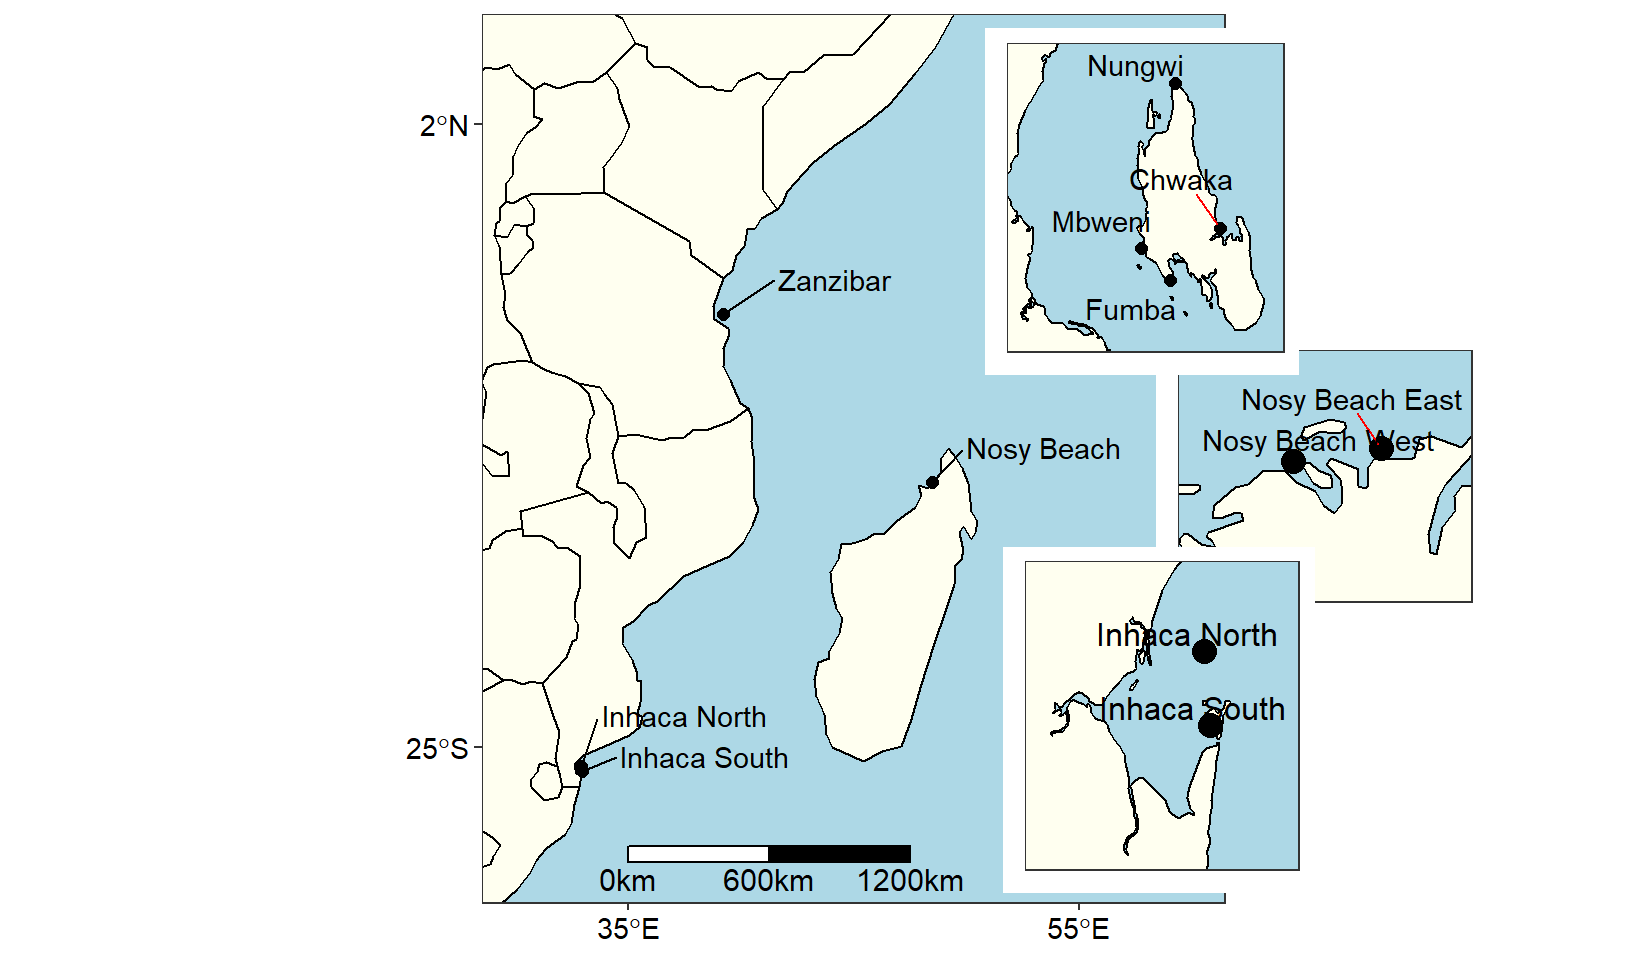
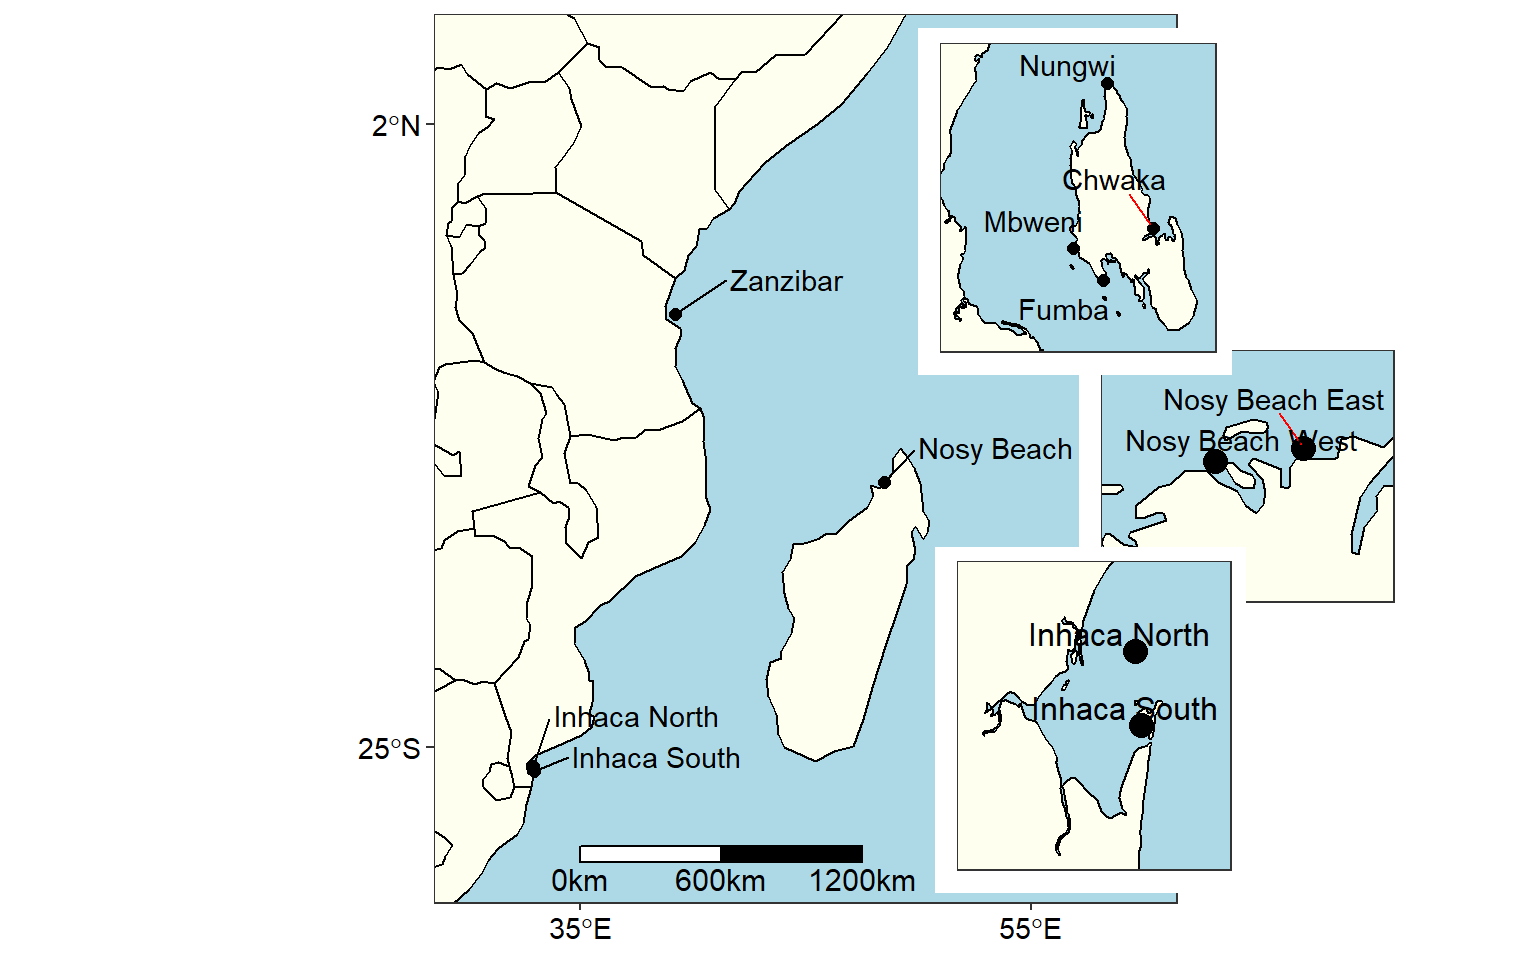
genetic post changed to graphics

diff --git a/content/post/2018-10-22-genetic-connectivity-in-western-indian-ocean-region.html b/content/post/2018-10-22-genetic-connectivity-in-western-indian-ocean-region.html
@@ -16,9 +16,9 @@ link-citations: yes
 
 <div id="moving-from-argis-to-r" class="section level3">
 <h3>Moving from ARGIS to R</h3>
-<p>For years, ESRI ArcGIS was a core software for most data processing, spatial analysis and drawing of outputs as map. Honestly the elegant high-resolution figures and maps I produced did not come from ArcMap, but rather from Adobe Illustrator. I was doing all the layout of the maps in ArcMap and then export it as in vector format <code>Encapsulated PostScript</code>. I then imported the <code>.eps</code> file into Adobe illustrator for touching and polishing. Although ArcMap has many cartographic tools and abilities <span class="citation">(ArcGIS, <a href="#ref-esri">2011</a>)</span>, but a lot of professional cartography is done in a vector graphics software such as Adobe Illustrator (and/or an image editing software such as Adobe Photoshop) <span class="citation">(Adobe Illustrator, <a href="#ref-illustrator">2013</a>)</span> .</p>
-<p>The main reason for using Adobe Illustrator was that it is a more robust graphics software package and provides tools and effects not available in ArcGIS. These allow me to access and manipulate each and every object on the page as a graphic object, even the individual vertices of the text letters. Therefore, combining ArcMap and Adobe Illustrator provided me the best I wanted. But the labour invested in creating a single graph or map was painful. Another main reason for looking for an alternative was the license issue. Esri Arcmap and Adobe illustrator are proprietary software and hook your pocket for using them— unable to purchase the license for using the software in developing countries. The other reason made me sick of the combinantion is when I was asked to make some edits on the graphics or maps created. I hated to go back and redo the same procedures to make the same map and accomodate the correction. My mind frequently flushed with an idea to make the procedure to make map and graphics once and then reproduce it. However, that was far from the reality because ArcGIS and Adobe Illustrator are two different platform.</p>
-<p>Switch to programming language and you are done! In 2015, I switched to R. One of the main reasons motivated me to turn to R is it’s strong graphic power <span class="citation">(R Core Team, <a href="#ref-r">2018</a>)</span> and reproducibility. In this post I will explain and show how to make elegant map with standard quality even for publishing. We first need to load the packages we need for drawing maps.</p>
+<p>For years, ESRI <strong>ArcGIS</strong> was a core software for most data processing, spatial analysis and drawing of outputs as map. Honestly the elegant high-resolution figures and maps I produced did not come from <strong>ArcMap</strong>, but rather from <strong>Adobe Illustrator</strong>. I was doing all the layout of the maps in <strong>ArcMap</strong> and then export it as in vector format <code>Encapsulated PostScript</code>. I then imported the <code>.eps</code> file into Adobe illustrator for touching and polishing. Although ArcMap has many cartographic tools and abilities <span class="citation">(ArcGIS, <a href="#ref-esri">2011</a>)</span>, but a lot of professional cartography is done in a vector graphics software such as <strong>Adobe Illustrator</strong> (and/or an image editing software such as <strong>Adobe Photoshop</strong>) <span class="citation">(Adobe Illustrator, <a href="#ref-illustrator">2013</a>)</span> .</p>
+<p>The main reason for using Adobe Illustrator was that it is a more robust graphics software package and provides tools and effects not available in <strong>ArcGIS.</strong> These allow me to access and manipulate each and every object on the page as a graphic object, even the individual vertices of the text letters. Therefore, combining ArcMap and Adobe Illustrator provided me the best I wanted. But the labour invested in creating a single graph or map was painful. Another main reason for looking for an alternative was the license issue. Esri <strong>Arcmap</strong> and <strong>Adobe Illustrator</strong> are proprietary software and hook your pocket for using them— unable to purchase the license for using the software in developing countries. The other reason made me sick of the combinantion is when I was asked to make some edits on the graphics or maps created. I hated to go back and redo the same procedures to make the same map and accomodate the correction. My mind frequently flushed with an idea to make the procedure to make map and graphics once and then reproduce it. However, that was far from the reality because <strong>ArcGIS</strong> and <strong>Adobe Illustrator</strong> are two different platform.</p>
+<p>Coding with programming language was the solution to avoid repeatitive procedure to the common tasks. In 2015, I switched to R. One of the main reasons motivated me to invest my time and resources in R is it’s strong graphic power <span class="citation">(R Core Team, <a href="#ref-r">2018</a>)</span> and reproducibility. In this post I will explain and show how to make elegant map with standard quality even for publishing. We first need to load the packages we need for drawing maps.</p>
 <pre class="r"><code>require(tidyverse)
 require(spData)
 require(sf)</code></pre>
@@ -325,7 +325,7 @@ Figure 5: The stations in A) Unguja-Tanzania and B) inhaca - Mozambique
   cowplot::draw_plot(inhaca+theme(axis.text = element_blank(), axis.ticks = element_blank()), 
                      x = .41, y = -0.05,width = .6, height = .6,scale = .6)</code></pre>
 <div class="figure"><span id="fig:cw2"></span>
-<img src="/post/2018-10-22-genetic-connectivity-in-western-indian-ocean-region_files/figure-html/cw2-1.png" alt="Map of area of interest drawn on on the WIO region area to show sampling stations" width="816" />
+<img src="/post/2018-10-22-genetic-connectivity-in-western-indian-ocean-region_files/figure-html/cw2-1.png" alt="Map of area of interest drawn on on the WIO region area to show sampling stations" width="768" />
 <p class="caption">
 Figure 6: Map of area of interest drawn on on the WIO region area to show sampling stations
 </p>

diff --git a/public/10/20/2018/genetic-connectivity-in-western-indian-ocean-region/index.html b/public/10/20/2018/genetic-connectivity-in-western-indian-ocean-region/index.html
@@ -80,9 +80,9 @@
 
 <div id="moving-from-argis-to-r" class="section level3">
 <h3>Moving from ARGIS to R</h3>
-<p>For years, ESRI ArcGIS was a core software for most data processing, spatial analysis and drawing of outputs as map. Honestly the elegant high-resolution figures and maps I produced did not come from ArcMap, but rather from Adobe Illustrator. I was doing all the layout of the maps in ArcMap and then export it as in vector format <code>Encapsulated PostScript</code>. I then imported the <code>.eps</code> file into Adobe illustrator for touching and polishing. Although ArcMap has many cartographic tools and abilities <span class="citation">(ArcGIS, <a href="#ref-esri">2011</a>)</span>, but a lot of professional cartography is done in a vector graphics software such as Adobe Illustrator (and/or an image editing software such as Adobe Photoshop) <span class="citation">(Adobe Illustrator, <a href="#ref-illustrator">2013</a>)</span> .</p>
-<p>The main reason for using Adobe Illustrator was that it is a more robust graphics software package and provides tools and effects not available in ArcGIS. These allow me to access and manipulate each and every object on the page as a graphic object, even the individual vertices of the text letters. Therefore, combining ArcMap and Adobe Illustrator provided me the best I wanted. But the labour invested in creating a single graph or map was painful. Another main reason for looking for an alternative was the license issue. Esri Arcmap and Adobe illustrator are proprietary software and hook your pocket for using them— unable to purchase the license for using the software in developing countries. The other reason made me sick of the combinantion is when I was asked to make some edits on the graphics or maps created. I hated to go back and redo the same procedures to make the same map and accomodate the correction. My mind frequently flushed with an idea to make the procedure to make map and graphics once and then reproduce it. However, that was far from the reality because ArcGIS and Adobe Illustrator are two different platform.</p>
-<p>Switch to programming language and you are done! In 2015, I switched to R. One of the main reasons motivated me to turn to R is it’s strong graphic power <span class="citation">(R Core Team, <a href="#ref-r">2018</a>)</span> and reproducibility. In this post I will explain and show how to make elegant map with standard quality even for publishing. We first need to load the packages we need for drawing maps.</p>
+<p>For years, ESRI <strong>ArcGIS</strong> was a core software for most data processing, spatial analysis and drawing of outputs as map. Honestly the elegant high-resolution figures and maps I produced did not come from <strong>ArcMap</strong>, but rather from <strong>Adobe Illustrator</strong>. I was doing all the layout of the maps in <strong>ArcMap</strong> and then export it as in vector format <code>Encapsulated PostScript</code>. I then imported the <code>.eps</code> file into Adobe illustrator for touching and polishing. Although ArcMap has many cartographic tools and abilities <span class="citation">(ArcGIS, <a href="#ref-esri">2011</a>)</span>, but a lot of professional cartography is done in a vector graphics software such as <strong>Adobe Illustrator</strong> (and/or an image editing software such as <strong>Adobe Photoshop</strong>) <span class="citation">(Adobe Illustrator, <a href="#ref-illustrator">2013</a>)</span> .</p>
+<p>The main reason for using Adobe Illustrator was that it is a more robust graphics software package and provides tools and effects not available in <strong>ArcGIS.</strong> These allow me to access and manipulate each and every object on the page as a graphic object, even the individual vertices of the text letters. Therefore, combining ArcMap and Adobe Illustrator provided me the best I wanted. But the labour invested in creating a single graph or map was painful. Another main reason for looking for an alternative was the license issue. Esri <strong>Arcmap</strong> and <strong>Adobe Illustrator</strong> are proprietary software and hook your pocket for using them— unable to purchase the license for using the software in developing countries. The other reason made me sick of the combinantion is when I was asked to make some edits on the graphics or maps created. I hated to go back and redo the same procedures to make the same map and accomodate the correction. My mind frequently flushed with an idea to make the procedure to make map and graphics once and then reproduce it. However, that was far from the reality because <strong>ArcGIS</strong> and <strong>Adobe Illustrator</strong> are two different platform.</p>
+<p>Coding with programming language was the solution to avoid repeatitive procedure to the common tasks. In 2015, I switched to R. One of the main reasons motivated me to invest my time and resources in R is it’s strong graphic power <span class="citation">(R Core Team, <a href="#ref-r">2018</a>)</span> and reproducibility. In this post I will explain and show how to make elegant map with standard quality even for publishing. We first need to load the packages we need for drawing maps.</p>
 <pre class="r"><code>require(tidyverse)
 require(spData)
 require(sf)</code></pre>
@@ -389,7 +389,7 @@ Figure 5: The stations in A) Unguja-Tanzania and B) inhaca - Mozambique
   cowplot::draw_plot(inhaca+theme(axis.text = element_blank(), axis.ticks = element_blank()), 
                      x = .41, y = -0.05,width = .6, height = .6,scale = .6)</code></pre>
 <div class="figure"><span id="fig:cw2"></span>
-<img src="/post/2018-10-22-genetic-connectivity-in-western-indian-ocean-region_files/figure-html/cw2-1.png" alt="Map of area of interest drawn on on the WIO region area to show sampling stations" width="816" />
+<img src="/post/2018-10-22-genetic-connectivity-in-western-indian-ocean-region_files/figure-html/cw2-1.png" alt="Map of area of interest drawn on on the WIO region area to show sampling stations" width="768" />
 <p class="caption">
 Figure 6: Map of area of interest drawn on on the WIO region area to show sampling stations
 </p>
